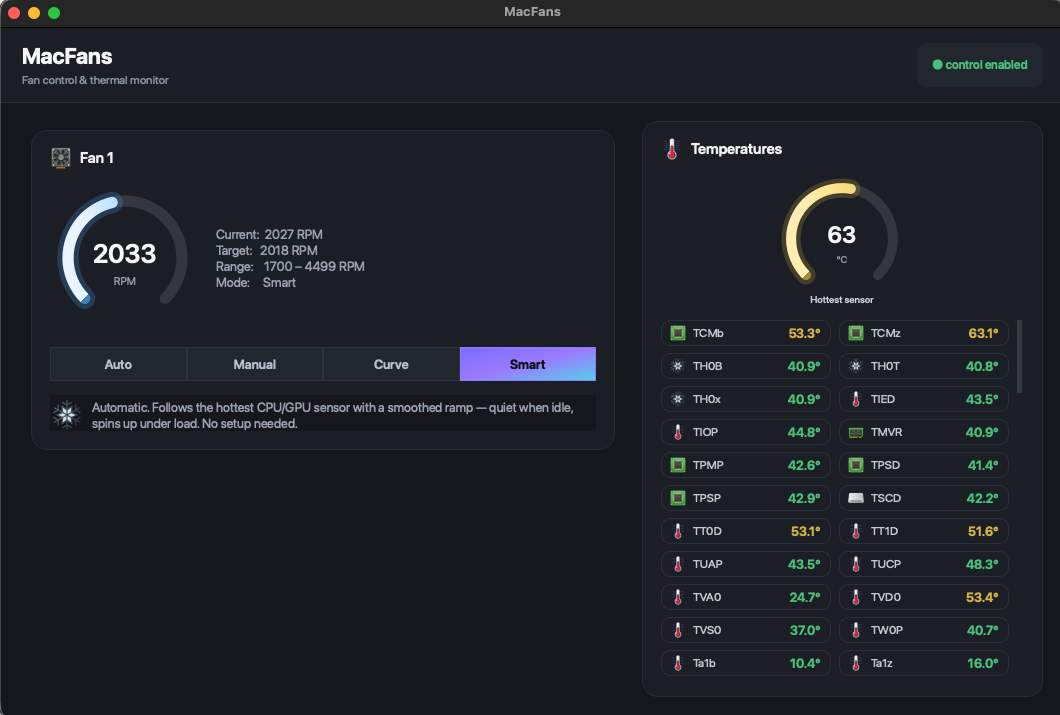
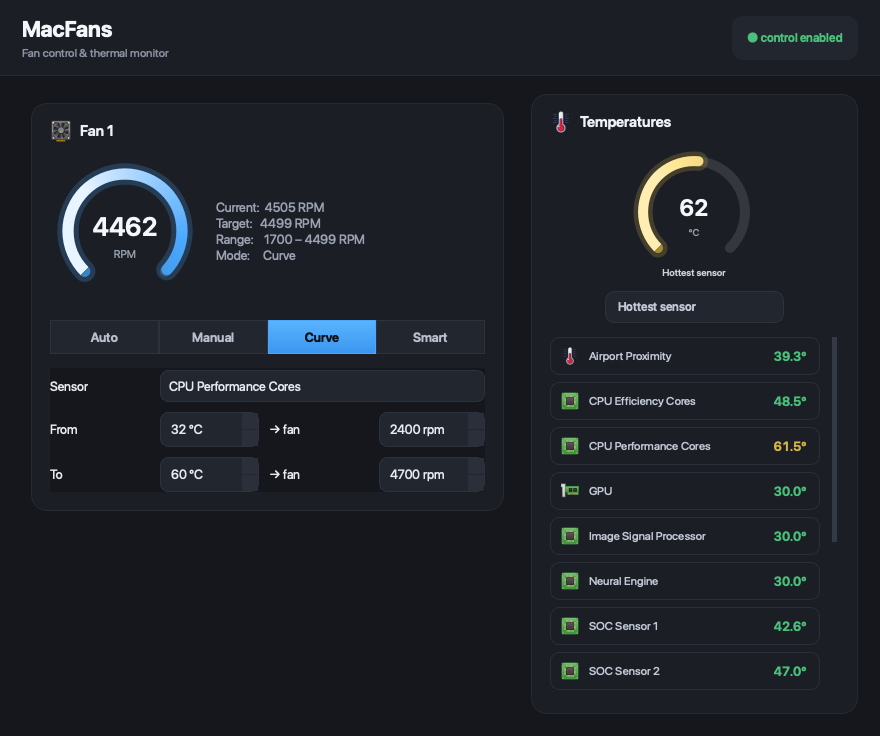
Align temperature rows and add a selectable gauge source
- Rebuild each sensor row with a fixed icon box (vertically centered), a
  left-aligned name, and a fixed-width right-aligned value using tabular
  figures (tnum) so the digits line up across rows. Reserve scrollbar space so
  values never hide under it. Fixes the ragged alignment.
- Add a selector under the big gauge: track the hottest sensor (default) or any
  specific sensor/group. Choice persists via QSettings; the gauge caption and
  tray tooltip follow it.
- main.cpp: MACFANS_SHOT=<path> dev helper to grab the window to PNG (for UI
  verification without a desktop session).
- Refresh the README screenshot.

diff --git a/src/mainwindow.cpp b/src/mainwindow.cpp
@@ -6,6 +6,7 @@
 #include <QProcess>
 #include <QFile>
 #include <QFileInfo>
+#include <QSettings>
 #include <QWidget>
 #include <QLabel>
 #include <QSlider>
@@ -349,47 +350,75 @@ QWidget *MainWindow::buildTempPanel() {
     hottestGauge_->setFixedHeight(134);
     v->addWidget(hottestGauge_, 0, Qt::AlignHCenter);
 
-    // Compact two-column grid of sensor chips — fits many sensors without
-    // forcing the window to grow. Scrolls only if there are a great many.
+    // What the big gauge tracks: the hottest sensor, or a specific one.
+    gaugeSrcCombo_ = new QComboBox;
+    gaugeSrcCombo_->setObjectName("gaugeSrc");
+    gaugeSrcCombo_->addItem("Hottest sensor", "__hottest__");
+    for (const auto &s : model_->sensors())
+        gaugeSrcCombo_->addItem(s.label, s.key);
+    gaugeSrcCombo_->setMaximumWidth(240);
+    {
+        QSettings st;
+        QString saved = st.value("gaugeSource", "__hottest__").toString();
+        int idx = gaugeSrcCombo_->findData(saved);
+        if (idx >= 0) gaugeSrcCombo_->setCurrentIndex(idx);
+    }
+    connect(gaugeSrcCombo_, &QComboBox::currentIndexChanged, this, [this] {
+        QSettings st;
+        st.setValue("gaugeSource", gaugeSrcCombo_->currentData().toString());
+        refresh();
+    });
+    v->addWidget(gaugeSrcCombo_, 0, Qt::AlignHCenter);
+
+    // One clean row per sensor, all columns aligned.
     auto *scroll = new QScrollArea;
     scroll->setWidgetResizable(true);
     scroll->setFrameShape(QFrame::NoFrame);
     scroll->setObjectName("tempScroll");
     scroll->setHorizontalScrollBarPolicy(Qt::ScrollBarAlwaysOff);
-    auto *gridWrap = new QWidget;
-    auto *grid = new QGridLayout(gridWrap);
-    grid->setContentsMargins(0, 2, 6, 0);
-    grid->setHorizontalSpacing(8);
-    grid->setVerticalSpacing(7);
+    scroll->setVerticalScrollBarPolicy(Qt::ScrollBarAsNeeded);
+    auto *listWrap = new QWidget;
+    auto *list = new QVBoxLayout(listWrap);
+    list->setContentsMargins(0, 2, 10, 0); // right margin reserves scrollbar space
+    list->setSpacing(7);
+
+    // Tabular figures so the digits line up vertically across rows.
+    QFont valFont;
+    valFont.setPointSizeF(13);
+    valFont.setWeight(QFont::DemiBold);
+    valFont.setFeature("tnum", 1);
 
     const auto &sensors = model_->sensors();
-    const int cols = 1;
-    for (int i = 0; i < sensors.size(); ++i) {
-        const auto &s = sensors[i];
+    for (const auto &s : sensors) {
         auto *chip = new QWidget;
         chip->setObjectName("tempRow");
+        chip->setFixedHeight(38);
         auto *rl = new QHBoxLayout(chip);
-        rl->setContentsMargins(9, 5, 10, 5);
-        rl->setSpacing(7);
-        rl->addWidget(iconLabel(sensorIconPath(s.iconKey), 16));
+        rl->setContentsMargins(11, 0, 13, 0);
+        rl->setSpacing(10);
+
+        auto *icon = iconLabel(sensorIconPath(s.iconKey), 18);
+        rl->addWidget(icon, 0, Qt::AlignVCenter);
+
         auto *nameL = new QLabel(s.label);
         nameL->setObjectName("tempName");
         nameL->setToolTip(s.memberKeys.join(", "));
-        nameL->setMinimumWidth(0);
+        nameL->setAlignment(Qt::AlignLeft | Qt::AlignVCenter);
+        rl->addWidget(nameL, 1);
+
         auto *valL = new QLabel;
         valL->setObjectName("tempVal");
+        valL->setFont(valFont);
+        valL->setFixedWidth(62);
         valL->setAlignment(Qt::AlignRight | Qt::AlignVCenter);
-        valL->setMinimumWidth(48);
-        rl->addWidget(nameL, 1);
-        rl->addWidget(valL);
-        grid->addWidget(chip, i / cols, i % cols);
+        rl->addWidget(valL, 0, Qt::AlignVCenter);
+
+        list->addWidget(chip);
         tempNameLabels_.push_back(nameL);
         tempValueLabels_.push_back(valL);
     }
-    grid->setColumnStretch(0, 1);
-    grid->setColumnStretch(1, 1);
-    grid->setRowStretch(grid->rowCount(), 1);
-    scroll->setWidget(gridWrap);
+    list->addStretch();
+    scroll->setWidget(listWrap);
     v->addWidget(scroll, 1);
 
     if (sensors.isEmpty()) {
@@ -421,21 +450,29 @@ void MainWindow::refresh() {
     const auto &sensors = model_->sensors();
     for (int i = 0; i < sensors.size() && i < tempValueLabels_.size(); ++i) {
         double t = sensors[i].value;
-        QColor c = tempColor(t);
         tempValueLabels_[i]->setText(QString("%1°").arg(t, 0, 'f', 1));
         tempValueLabels_[i]->setStyleSheet(
-            QString("color:%1; font-weight:600;").arg(c.name()));
+            QString("color:%1;").arg(tempColor(t).name()));
     }
 
-    double mx = model_->maxTemp();
+    // Drive the big gauge from the chosen source (hottest, or a named sensor).
+    double gv = model_->maxTemp();
+    QString cap = "Hottest sensor";
+    if (gaugeSrcCombo_) {
+        QString key = gaugeSrcCombo_->currentData().toString();
+        if (key != "__hottest__") {
+            SensorInfo s = model_->sensorByKey(key);
+            if (!s.label.isEmpty()) { gv = s.value; cap = s.label; }
+        }
+    }
     if (hottestGauge_) {
-        hottestGauge_->setAccent(tempColor(mx));
-        hottestGauge_->setValue(mx);
+        hottestGauge_->setCaption(cap);
+        hottestGauge_->setAccent(tempColor(gv));
+        hottestGauge_->setValue(gv);
     }
 
-    if (tray_) {
-        tray_->setToolTip(QString("MacFans — hottest %1°C").arg(mx, 0, 'f', 0));
-    }
+    if (tray_)
+        tray_->setToolTip(QString("MacFans — %1 %2°C").arg(cap).arg(gv, 0, 'f', 0));
 }
 
 void MainWindow::updateStatusPill() {

diff --git a/src/main.cpp b/src/main.cpp
@@ -2,6 +2,7 @@
 #include <QFile>
 #include <QMessageBox>
 #include <QStyleFactory>
+#include <QTimer>
 
 #include "fanmodel.h"
 #include "mainwindow.h"
@@ -32,6 +33,15 @@ int main(int argc, char **argv) {
 
     MainWindow w(model);
     w.show();
+
+    // Dev helper: MACFANS_SHOT=<path> grabs the window to a PNG then quits.
+    if (qEnvironmentVariableIsSet("MACFANS_SHOT")) {
+        const QString path = qEnvironmentVariable("MACFANS_SHOT");
+        QTimer::singleShot(1800, [&w, path] {
+            w.grab().save(path);
+            qApp->quit();
+        });
+    }
 
     int rc = app.exec();
     model->restoreAllAuto(); // safety net on exit

diff --git a/src/mainwindow.h b/src/mainwindow.h
@@ -52,6 +52,7 @@ private:
     QVector<QLabel *> tempValueLabels_;
     QVector<QLabel *> tempNameLabels_;
     Gauge *hottestGauge_ = nullptr;
+    QComboBox *gaugeSrcCombo_ = nullptr;
     QLabel *statusPill_ = nullptr;
     QPushButton *enableBtn_ = nullptr;
     QSystemTrayIcon *tray_ = nullptr;
